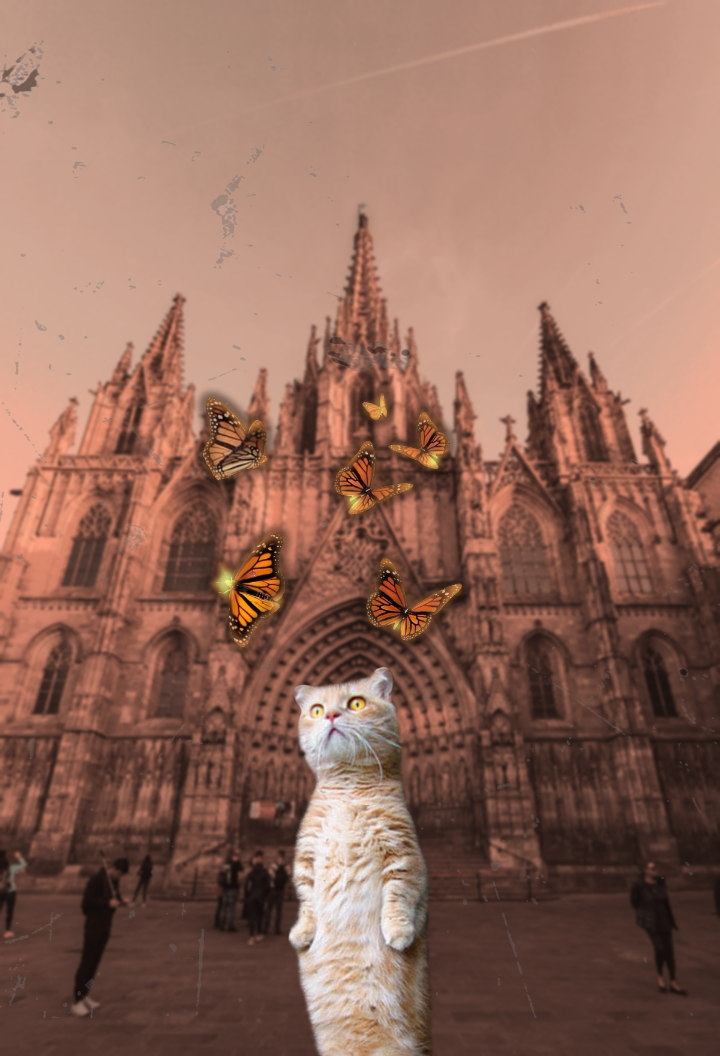
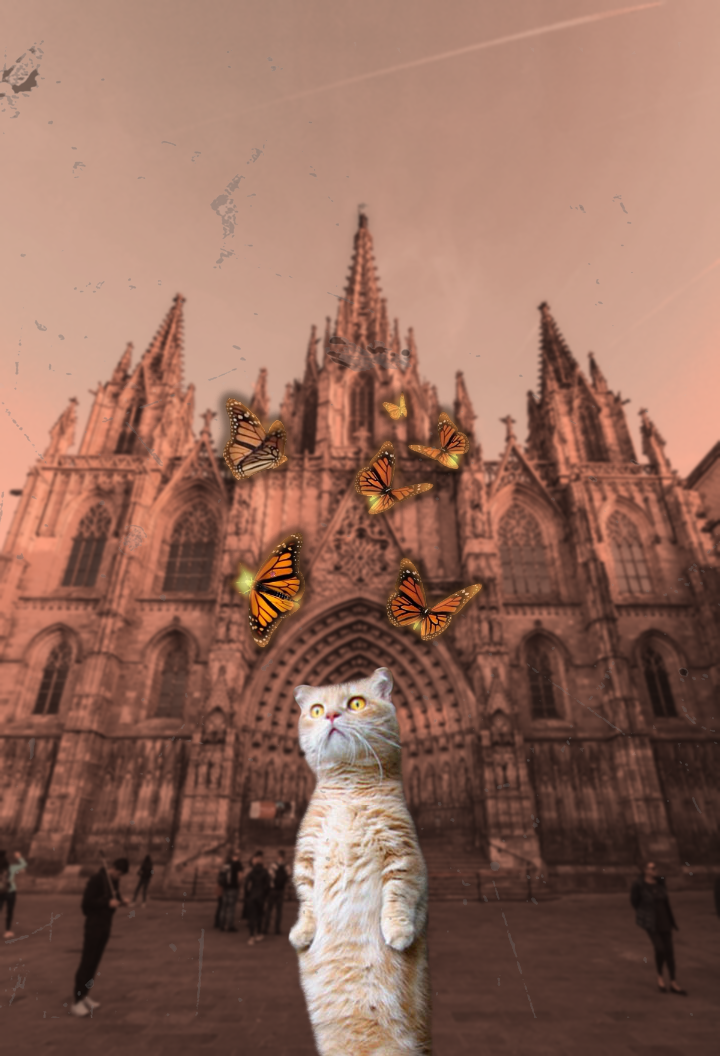
feat: add cat_fight complete code

Changed region(s): [[0.4583, 0.3438, 0.6722, 0.625], [0.275, 0.5, 0.4583, 0.625], [0.275, 0.3438, 0.4278, 0.4688]]

diff --git a/cat_fight.py b/cat_fight.py
@@ -4,13 +4,45 @@ from util.utils import *
 
 background = read_file("roman-theatre-of-orange.jpg")
 cats_fighting = read_file("cats-fighting.png")
+scratch_overlay = read_file("scratch-overlay3.png")
+crumpled_paper = read_file("crumpled-paper.jpg")
+flare = read_file("flare.png")
 
 background = resize_percentage(background, 0.5)
 cats_fighting = resize_percentage(cats_fighting, 0.3)
+flare = resize_percentage(flare, 0.6)
+
+cats_fighting = glow_image(cats_fighting, 10, 100, (1, 2.6, 7.6, 1))
+flare[:, :, 3] = flare[:, :, 3] * 0.7
+flare[:, :, 1] = flare[:, :, 1] * 0.5
+flare[:, :, 0] = flare[:, :, 0] * 0.6
+
+crumpled_paper = crumpled_paper[
+    :background.shape[0],
+    :background.shape[1],
+]
 
 overlay_transparent(
-	background,
-	cats_fighting
+    background,
+    cats_fighting,
+    int(background.shape[1] * 0.5) - 150,
 )
 
+overlay_transparent(
+    background,
+    flare,
+    int(background.shape[1] * 0.25) - 100,
+    int(background.shape[0] * 0.25) - 240,
+)
+
+overlay_transparent(
+    background,
+    scratch_overlay,
+)
+
+background = (background/255)*(crumpled_paper/255) * 255
+background = background.astype(np.uint8)
+# background += 0.05
+
 show_image(background)
+cv2.imwrite("cat_fight.png", background)

diff --git a/util/utils.py b/util/utils.py
@@ -130,6 +130,28 @@ def overlay_transparent_to_transparent(background, foreground, x_offset=None, y_
     # overwrite the section of the background image that has been updated
     background[bg_y:bg_y + h, bg_x:bg_x + w] = composite
 
+def glow_image(image, loop: int, extend: int, color_multiplier):
+    image = extend_image(image, extend, extend, 0)
+
+    inv_loop = 1.0 / loop
+    image_alpha = image[:, :, 3]
+    image_glow = cv2.Canny(image_alpha, 50, 150)
+
+    for i in range(0, loop):
+        image_glow = cv2.GaussianBlur(image_glow, (5, 5), 10) + cv2.multiply(image_glow, inv_loop)
+
+    image_glow = cv2.cvtColor(image_glow, cv2.COLOR_GRAY2RGBA)
+    image_glow[:, :, 3] = image_glow[:, :, 1]
+    image_glow = cv2.multiply(image_glow, color_multiplier)
+
+    for i in range(0, 3):
+        overlay_transparent_to_transparent(
+            image,
+            image_glow,
+        )
+
+    return image
+
 def show_image(image):
     # cv2.imshow("image", butterfly)
     cv2.imshow("image", image)

diff --git a/church_cult.py b/church_cult.py
@@ -19,26 +19,8 @@ for i in range(0, LOOP_COUNT):
     background = cv2.GaussianBlur(background, (3, 3), 2)
 
 # Glow butterfly
-butterfly = extend_image(butterfly, 100, 100, 0)
 butterfly = resize_percentage(butterfly, 0.6)
-
-LOOP_COUNT = 15
-INV_LOOP_COUNT = 1.0 / LOOP_COUNT
-butterfly_alpha = butterfly[:, :, 3]
-butterfly_glow = cv2.Canny(butterfly_alpha, 50, 150)
-
-for i in range(0, LOOP_COUNT):
-    butterfly_glow = cv2.GaussianBlur(butterfly_glow, (5, 5), 10) + cv2.multiply(butterfly_glow, INV_LOOP_COUNT)
-
-butterfly_glow = cv2.cvtColor(butterfly_glow, cv2.COLOR_GRAY2RGBA)
-butterfly_glow[:, :, 3] = butterfly_glow[:, :, 1]
-butterfly_glow = cv2.multiply(butterfly_glow, (1.0, 2.1, 3.4, 1))
-
-for i in range(0, 3):
-    overlay_transparent_to_transparent(
-        butterfly,
-        butterfly_glow,
-    )
+butterfly = glow_image(butterfly, 15, 100, (1, 2.1, 3.4, 1))
 
 # Reduce scratch_overlay2 alpha
 scratch_overlay[:, :, 3] = scratch_overlay[:, :, 3] * 0.4
